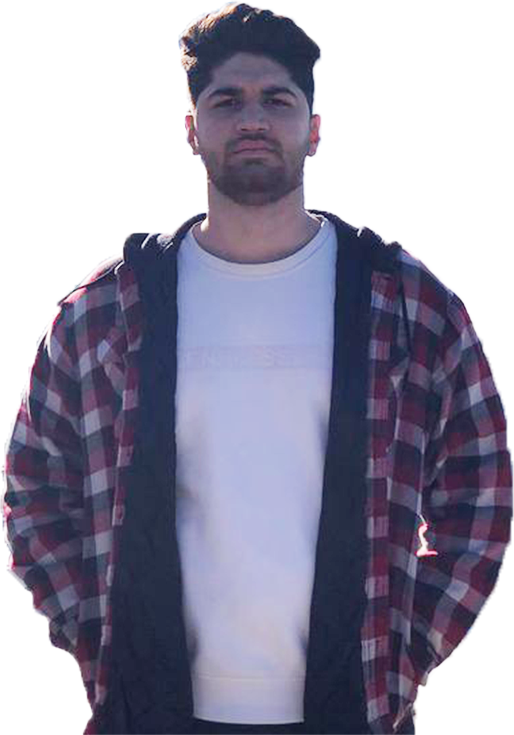
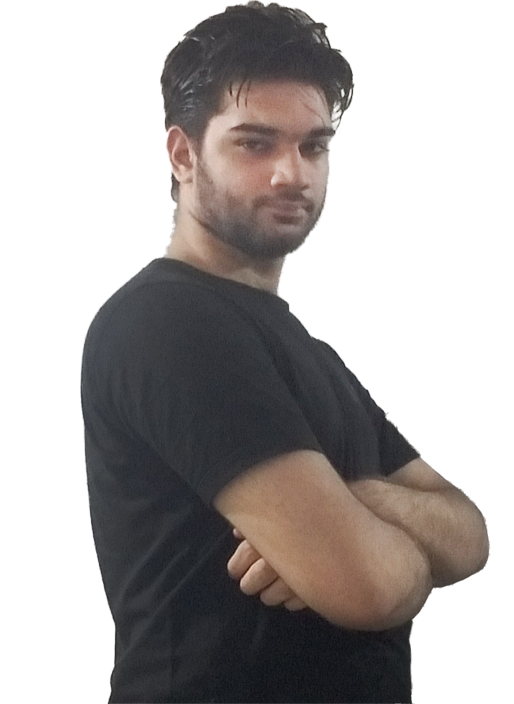
change photo and portfolio and 1st sec title

diff --git a/components/FirstSection.jsx b/components/FirstSection.jsx
@@ -9,7 +9,13 @@ const FirstSection = () => {
         {" "}
         <div className="min-w-max self-center hidden md:block md:relative md:left-20 md:top-8 lg:top-8 lg:left-0">
           {" "}
-          <Image src={MyImage} width={350} height={499} alt="Picture of the author" />
+          <Image
+            src={MyImage}
+            quality={100}
+            width={350}
+            height={499}
+            alt="Picture of the author"
+          />
         </div>
         <div className="pl-40 pt-10 text">
           <h1 className="text-3xl md:text-4xl lg:text-5xl pb-3 lg:left-0 text-gray-600 sm:text-4xl sm:relative sm:right-0  md:sticky lg:relative lg:right-20 md:text-left">
@@ -18,21 +24,25 @@ const FirstSection = () => {
           <div className="text-center text-gray-600 sm:relative relative sm:right-16 sm:text-center pb-11 w-96 h-1 lg:relative xl:text-left xl:right-96  md:text-left md:left-0 lg:text-left lg:top-0 lg:right-96 sm:top-0 top-0 right-20 font-mono text-lg sm:text-lg">
             <Typewriter
               options={{
-                strings: ["<span>Junior ReactJS developer</span>"],
+                strings: [
+                  '<p style="display:inline-block;">ReactJS developer</p>',
+                ],
                 autoStart: true,
                 loop: true,
               }}
             />
           </div>
-       
+
           <p className="mt-10 mr-44 text-gray-600 text-xl text-center block md:text-left ">
-            Hello people, my name is Matin and <br/> I was born in March 2003 in Sari <br/> I
-            started programming as a front-end developer since 2018 <br/> and I try to keep my skills up to
-            date <br/>with the new technologies
+            <p>Hello, my name is Matin and</p>
+            <p>I was born in November 2003 in Sari</p>
+            <p>I started programming as a front-end developer since 2018</p>
+            <p>and I love to to keep my skills up to date</p>
+            <p>with the new technologies</p>
           </p>
           <div className="mt-6 ml-10 md:relative md:right-10">
             <a
-              href="#"
+              href="https://drive.google.com/u/0/uc?id=1j7d8gFcBdgycG4DJ2Bip_gDRPCnE_6WE&export=download"
               className="inline-block sm:px-8 sm:py-3 px-4 py-2 rounded-3xl bg-gray-600 text-white hover:bg-brandbg hover:text-gray-700 hover:border-gray-600 transition-colors border"
             >
               Downlaod CV

diff --git a/services/workSamples.js b/services/workSamples.js
@@ -23,7 +23,7 @@ const workSamples = [
     _id: "5b21ca3eeb7f6fbccd471817",
     href: Varzesh3,
     src: Varzesh3,
-    alt: "Varzesh 3 website",
+    alt: "Ratin Admin Panel",
   },
   {
     _id: "5b21ca3eeb7f6fbccd471819",
@@ -35,19 +35,19 @@ const workSamples = [
     _id: "5b21ca3eeb7f6fbccd47181a",
     href: ShoeShop1,
     src: ShoeShop1,
-    alt: "online shoe shop",
+    alt: "Finogen WebDesigning website",
   },
   {
     _id: "5b21ca3eeb7f6fbccd47181b",
     href: OnlineInvest,
     src: OnlineInvest,
-    alt: "Online investment website",
+    alt: "Online Shoe Shop",
   },
   {
     _id: "5b21ca3eeb7f6fbccd47181e",
     href: ShoeShop2,
     src: ShoeShop2,
-    alt: "Online shoe shop",
+    alt: "Disel Website",
   },
   {
     _id: "5b21ca3eeb7f6fbccd47181f",

diff --git a/components/WorkSamples.jsx b/components/WorkSamples.jsx
@@ -12,6 +12,7 @@ const WorkSamples = (props) => {
           alt={props.alt}
           width={240}
           height={116.72}
+          quality={100}
         />
       </a>
     </div>
